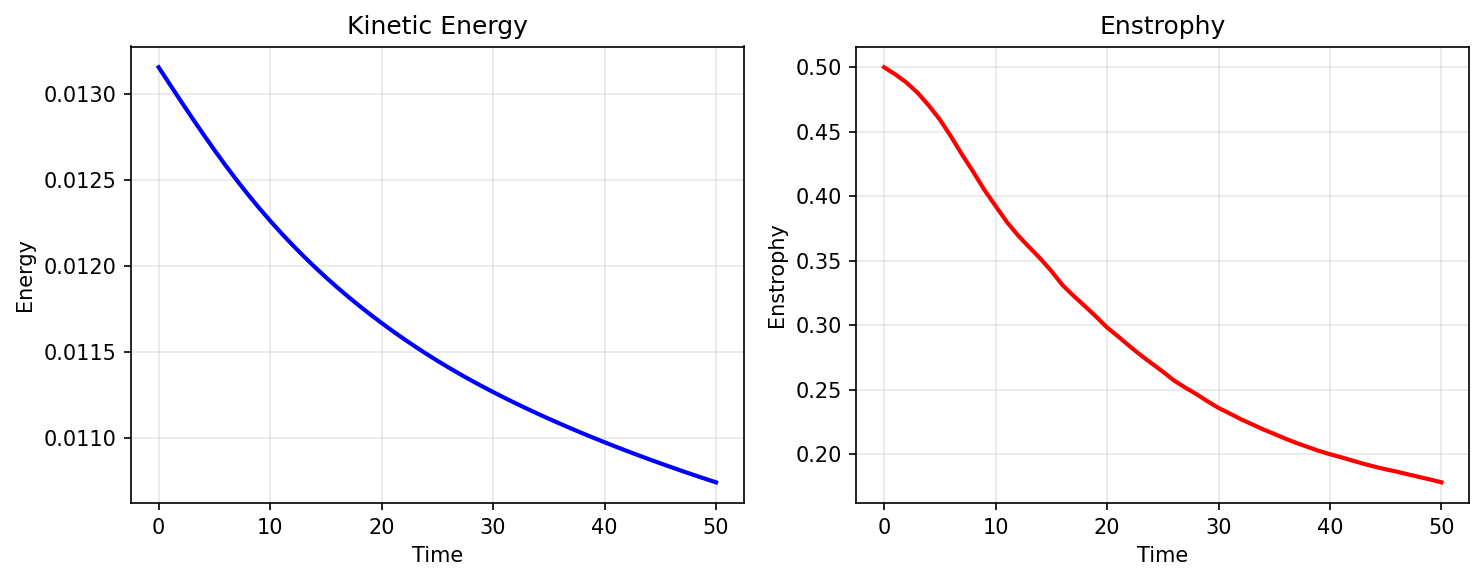
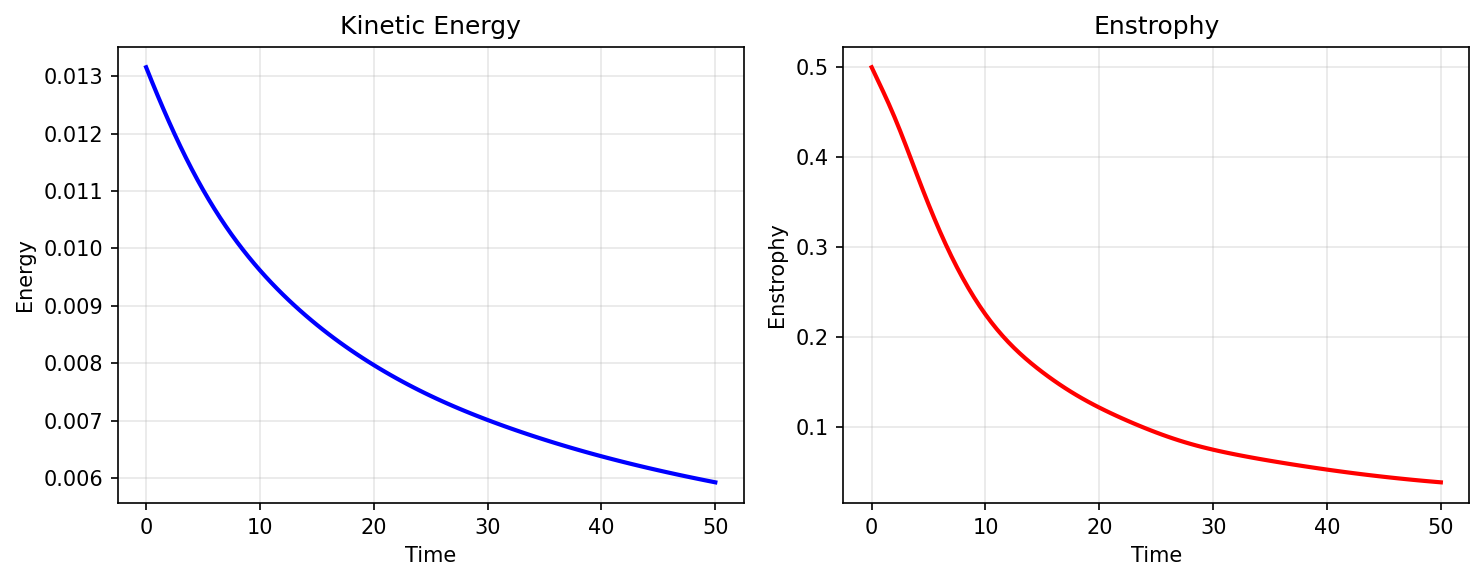
fix: stabilize demo_qg simulation and fix hyperviscosity sign
- Fix hyperviscosity sign: use (-1)^(nv+1) * nu * (nabla^2)^nv q
  to ensure dissipation for any order (same fix as pseudospectral_part2)
- Use nv=1 (Laplacian viscosity, nu=5e-4) at 256x256 instead of
  biharmonic, which is too stiff for explicit RK4 at this resolution
  (dt * nu * k_max^4 >> stability limit)
- Reduce dt from 0.01 to 0.005 for CFL stability
- Eliminates grid-scale checkerboard noise in vorticity evolution

diff --git a/notebooks/demo_qg.py b/notebooks/demo_qg.py
@@ -94,7 +94,7 @@ class QGParams(NamedTuple):
     nv: int = 1            # hyperviscosity order (1=Laplacian, 2=biharmonic)
 
 
-params = QGParams(nu=1e-4, mu=0.0, nv=1)
+params = QGParams(nu=5e-4, mu=0.0, nv=1)
 print(f"Parameters: nu={params.nu}, mu={params.mu}, nv={params.nv}")
 
 # %% [markdown]
@@ -229,13 +229,13 @@ def qg_tendency(q: jnp.ndarray, params: QGParams) -> jnp.ndarray:
     # Initialize RHS with advection
     rhs = advection
 
-    # Diffusion term: nu * nabla^{2n} q
+    # Hyperviscosity: (-1)^{nv+1} * nu * nabla^{2nv} q
+    # Sign ensures dissipation: nv=1 → +nu*∇²q, nv=2 → -nu*∇⁴q, etc.
     if params.nu > 0:
-        # Apply Laplacian n times
         lap_q = q
         for _ in range(params.nv):
             lap_q = deriv.laplacian(lap_q)
-        rhs = rhs + params.nu * lap_q
+        rhs = rhs + (-1) ** (params.nv + 1) * params.nu * lap_q
 
     # Linear drag: -mu * q
     if params.mu > 0:
@@ -272,7 +272,7 @@ def integrate_steps(q: jnp.ndarray, dt: float, n_steps: int, params: QGParams) -
 
 # %%
 # Time stepping parameters
-dt = 0.01
+dt = 0.005
 t_final = 50.0
 n_steps_per_output = 100
 n_outputs = int(t_final / (dt * n_steps_per_output))
